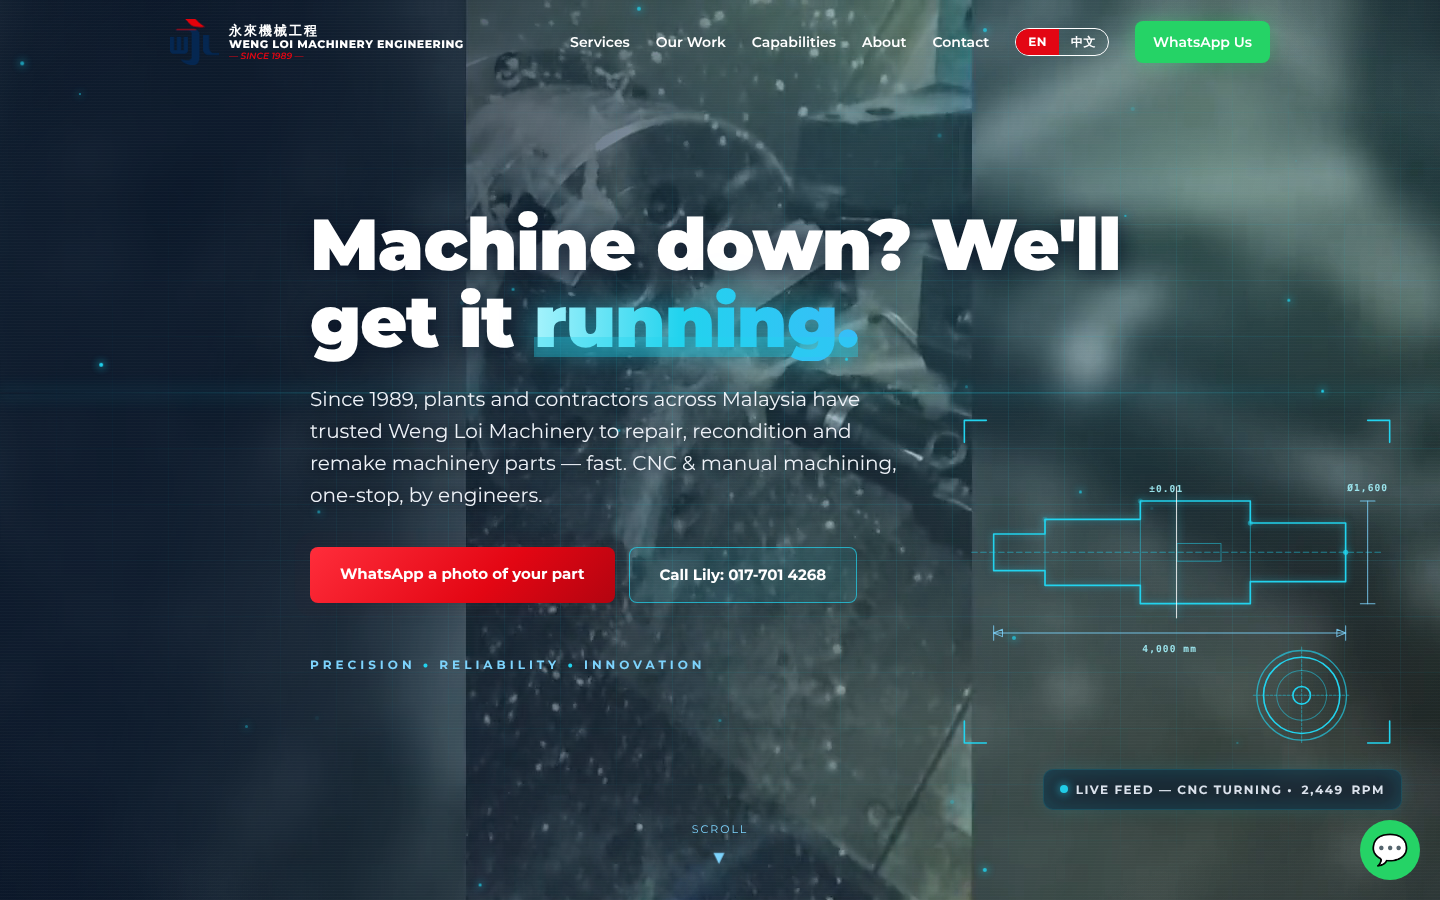
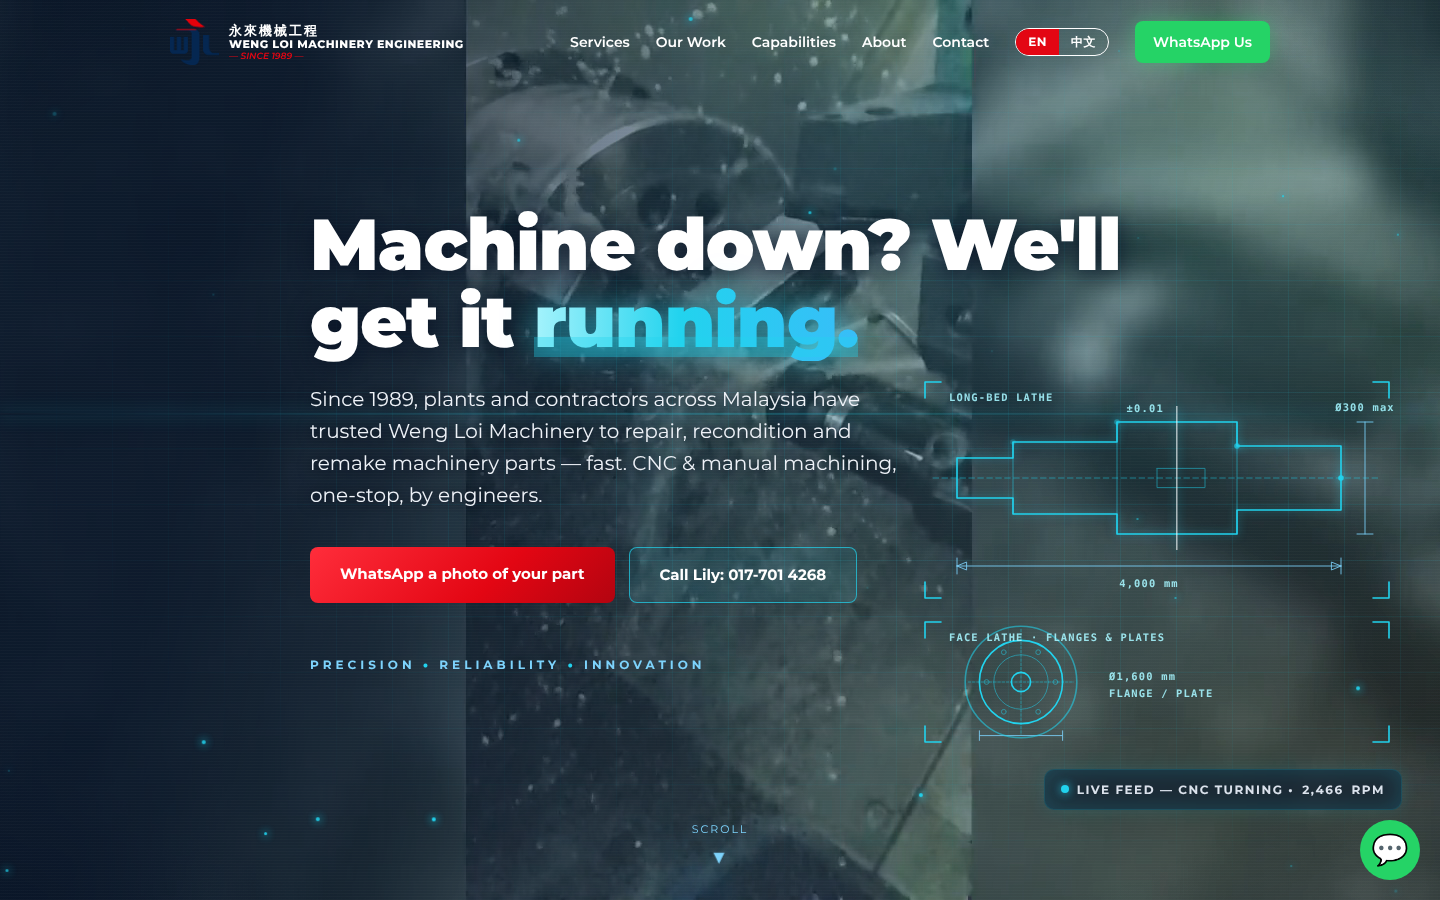
Hero HUD: show long-bed lathe (4,000 mm, Ø300 max) and face lathe (Ø1,600 flanges/plates) as separate machines
Claude-Session: https://claude.ai/code/session_01AcyBcYVTU1HYaaSLaFbABc

diff --git a/assets/js/futuristic.js b/assets/js/futuristic.js
@@ -39,39 +39,50 @@
     var loops = [];
 
     if (wide) {
-      var svg = el('svg', { 'class': 'hud-art', viewBox: '0 0 600 460', 'aria-hidden': 'true', focusable: 'false' });
+      /* Two separate machines, drawn as two separate panels:
+         1) long-bed lathe: shafts up to 4,000 mm long, max Ø300 mm
+         2) FUJISEIKI face lathe: flanges and plates up to Ø1,600 mm */
+      var svg = el('svg', { 'class': 'hud-art', viewBox: '0 0 600 480', 'aria-hidden': 'true', focusable: 'false' });
       hero.insertBefore(svg, hero.querySelector('.hud'));
-      var P = function (d, cls) { return el('path', { d: d, 'class': 'd ' + (cls || '') }, svg); };
-      /* corner brackets */
-      P('M10 40V10H40'); P('M560 10H590V40'); P('M10 420V450H40'); P('M590 420V450H560', '');
-      /* centre line */
-      P('M20 190H580', 'thin dash');
-      /* stepped shaft, side view */
-      P('M50 165H120V145H250V120H400V150H530V230H400V260H250V235H120V215H50Z', 'shaft');
-      P('M250 120V260', 'thin'); P('M120 145V235', 'thin'); P('M400 120V260', 'thin'); /* shoulders */
-      P('M300 178H360V202H300Z', 'thin'); /* keyway */
-      /* dimension lines */
-      P('M50 300H530', 'dim'); P('M50 290V310', 'dim'); P('M530 290V310', 'dim');
-      P('M50 300l12 -5v10Z M530 300l-12 -5v10Z', 'dim');
-      P('M560 120V260', 'dim'); P('M550 120H570', 'dim'); P('M550 260H570', 'dim');
-      /* cross-section */
-      var cx = 470, cy = 385;
-      el('circle', { cx: cx, cy: cy, r: 52, 'class': 'd' }, svg);
-      el('circle', { cx: cx, cy: cy, r: 34, 'class': 'd thin' }, svg);
-      el('circle', { cx: cx, cy: cy, r: 12, 'class': 'd' }, svg);
-      P('M' + (cx - 66) + ' ' + cy + 'H' + (cx + 66) + 'M' + cx + ' ' + (cy - 66) + 'V' + (cy + 66), 'thin dash');
-      /* idle layer: scanning cursor, pulse ring, nodes */
-      var scan = el('line', { 'class': 'hud-scan', x1: 0, y1: 100, x2: 0, y2: 280 }, svg);
-      var pulse = el('circle', { 'class': 'hud-pulse', cx: cx, cy: cy, r: 52 }, svg);
-      [[120, 145], [250, 120], [400, 150], [530, 190]].forEach(function (p) {
-        el('circle', { 'class': 'node', cx: p[0], cy: p[1], r: 3.5 }, svg);
-      });
-      var T = function (x, y, t, anchor) {
-        var n = el('text', { x: x, y: y }, svg); n.textContent = t;
+      var gA = el('g', { transform: 'translate(0,-50)' }, svg), gB = el('g', {}, svg);
+      var P = function (g, d, cls) { return el('path', { d: d, 'class': 'd ' + (cls || '') }, g); };
+      var T = function (g, x, y, t, anchor) {
+        var n = el('text', { x: x, y: y }, g); n.textContent = t;
         if (anchor) n.setAttribute('text-anchor', anchor);
         return n;
       };
-      T(290, 326, '4,000 mm', 'middle'); T(560, 106, 'Ø1,600', 'middle'); T(262, 108, '±0.01');
+      /* panel frames (corner brackets) */
+      P(svg, 'M10 40V20H30 M570 20H590V40 M10 270V290H30 M590 270V290H570');
+      P(svg, 'M10 340V320H30 M570 320H590V340 M10 450V470H30 M590 450V470H570');
+      /* panel 1: long-bed lathe, stepped shaft side view */
+      P(gA, 'M20 190H580', 'thin dash');
+      P(gA, 'M50 165H120V145H250V120H400V150H530V230H400V260H250V235H120V215H50Z', 'shaft');
+      P(gA, 'M250 120V260', 'thin'); P(gA, 'M120 145V235', 'thin'); P(gA, 'M400 120V260', 'thin');
+      P(gA, 'M300 178H360V202H300Z', 'thin');
+      P(gA, 'M50 300H530', 'dim'); P(gA, 'M50 290V310', 'dim'); P(gA, 'M530 290V310', 'dim');
+      P(gA, 'M50 300l12 -5v10Z M530 300l-12 -5v10Z', 'dim');
+      P(gA, 'M560 120V260', 'dim'); P(gA, 'M550 120H570', 'dim'); P(gA, 'M550 260H570', 'dim');
+      /* panel 2: face lathe, flange seen face-on */
+      var cx = 130, cy = 395;
+      el('circle', { cx: cx, cy: cy, r: 52, 'class': 'd' }, gB);
+      el('circle', { cx: cx, cy: cy, r: 34, 'class': 'd thin' }, gB);
+      el('circle', { cx: cx, cy: cy, r: 12, 'class': 'd' }, gB);
+      for (var b = 0; b < 6; b++) {
+        var a = b * Math.PI / 3;
+        el('circle', { cx: cx + 43 * Math.cos(a), cy: cy + 43 * Math.sin(a), r: 3, 'class': 'd thin' }, gB);
+      }
+      P(gB, 'M' + (cx - 66) + ' ' + cy + 'H' + (cx + 66) + 'M' + cx + ' ' + (cy - 66) + 'V' + (cy + 66), 'thin dash');
+      P(gB, 'M' + (cx - 52) + ' 462H' + (cx + 52) + 'M' + (cx - 52) + ' 456V468M' + (cx + 52) + ' 456V468', 'dim');
+      /* idle layer */
+      var scan = el('line', { 'class': 'hud-scan', x1: 0, y1: 100, x2: 0, y2: 280 }, gA);
+      var pulse = el('circle', { 'class': 'hud-pulse', cx: cx, cy: cy, r: 52 }, gB);
+      [[120, 145], [250, 120], [400, 150], [530, 190]].forEach(function (p) {
+        el('circle', { 'class': 'node', cx: p[0], cy: p[1], r: 3.5 }, gA);
+      });
+      T(svg, 40, 44, 'LONG-BED LATHE');
+      T(gA, 290, 326, '4,000 mm', 'middle'); T(gA, 560, 106, 'Ø300 max', 'middle'); T(gA, 262, 108, '±0.01');
+      T(svg, 40, 344, 'FACE LATHE · FLANGES & PLATES');
+      T(svg, 240, 392, 'Ø1,600 mm'); T(svg, 240, 414, 'FLANGE / PLATE');
 
       var geo = A.svg.createDrawable(svg.querySelectorAll('.d'));
       animate(geo, { draw: ['0 0', '0 1'], duration: 1800, delay: stagger(110), ease: 'inOutQuad' });
